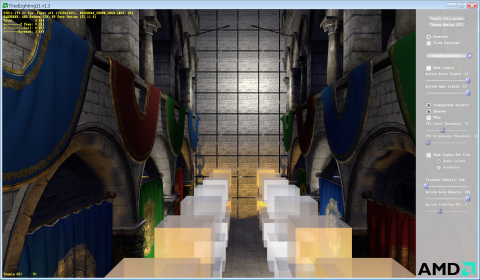
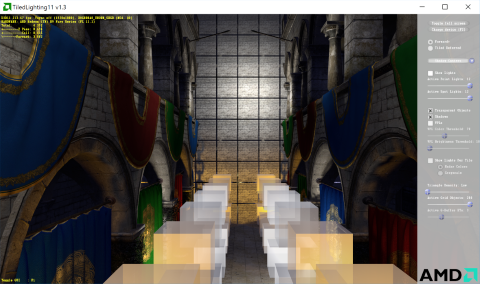
Update thumbnail

diff --git a/README.md b/README.md
@@ -1,5 +1,5 @@
 # AMD Compute-Based Tiled Lighting Sample
-<img src="tiledlighting11/media/Thumbnail.png" width="480" height="280" />
+<img src="tiledlighting11/media/Thumbnail.png" width="480" height="284" />
 
 The TiledLighting11 DirectX 11 sample provides an example implementation of two tile-based light culling methods: Forward+ and Tiled Deferred. Both methods support high numbers of dynamic lights while maintaining performance. They utilize a Direct3D 11 compute shader (DirectCompute 5.0) to divide the screen into tiles and quickly cull lights against those tiles.
 
